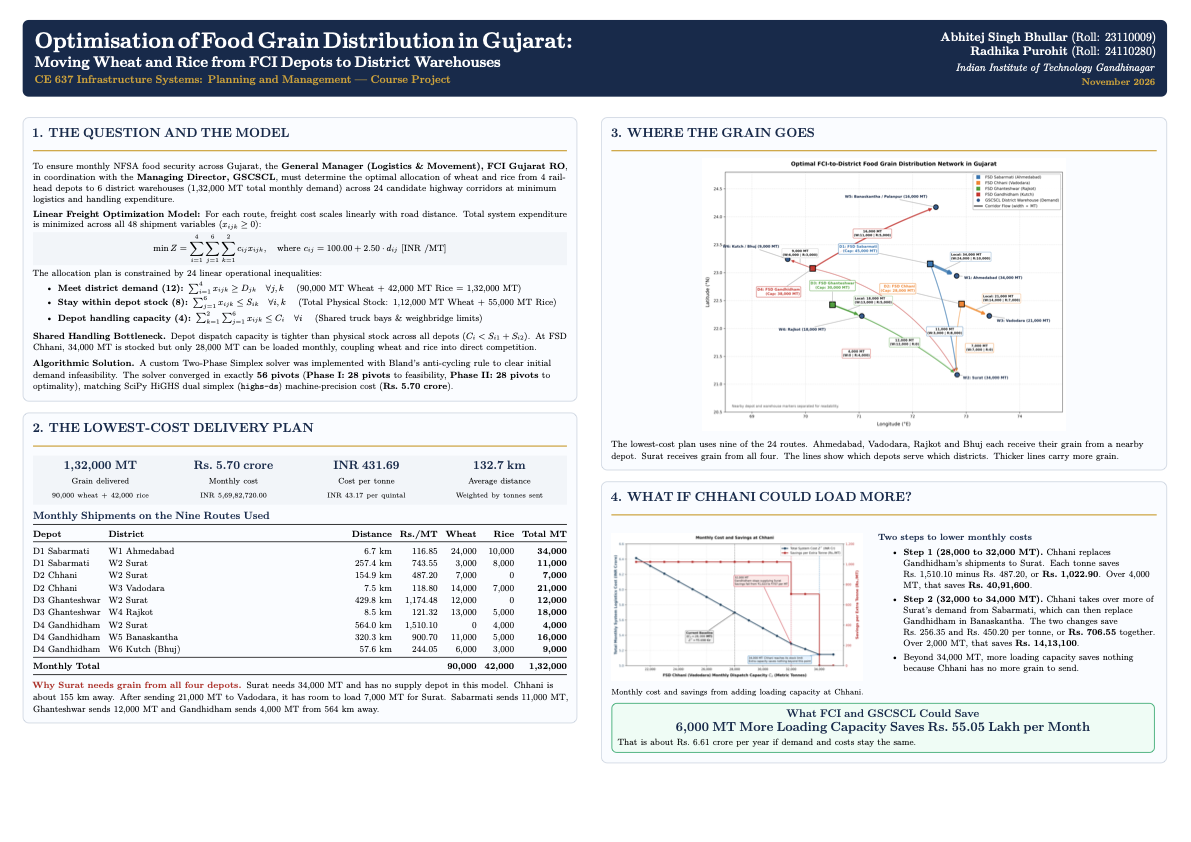
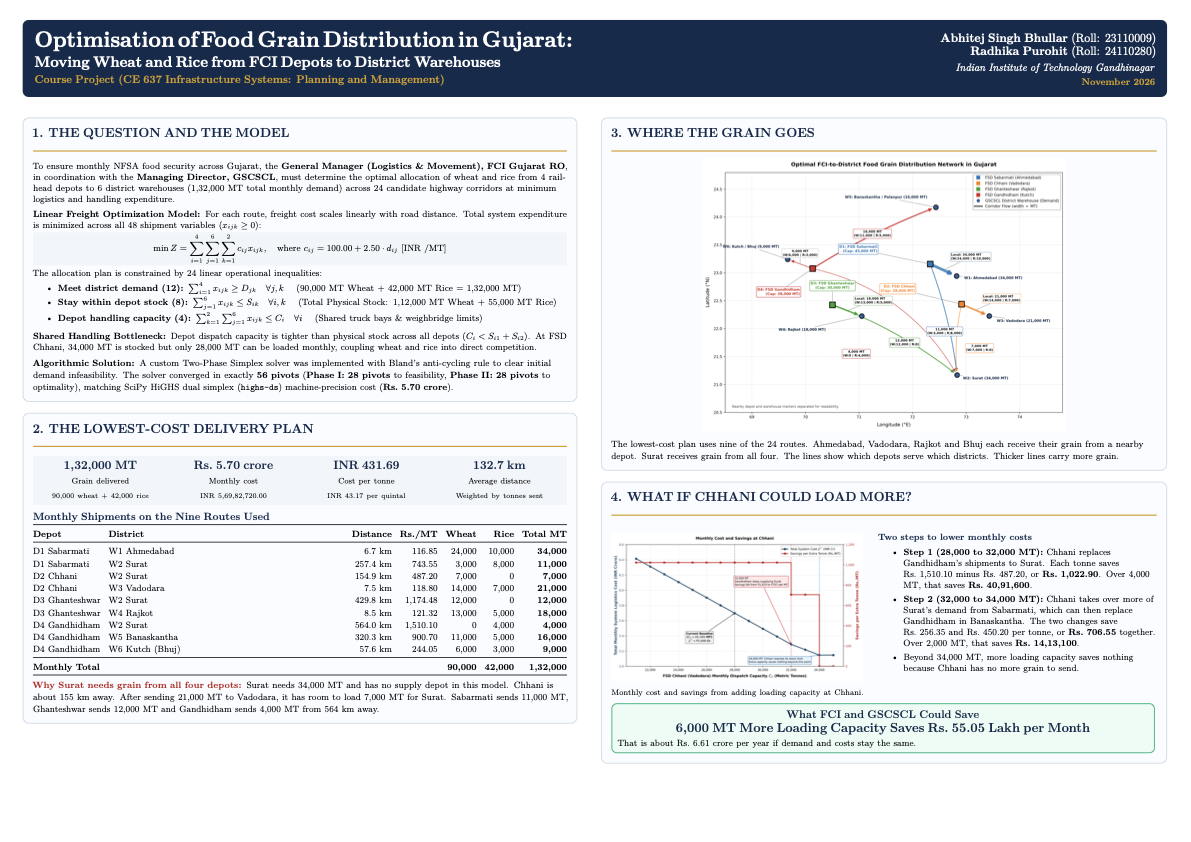
improved poster formatting

diff --git a/report/Poster.tex b/report/Poster.tex
@@ -44,7 +44,7 @@
       \color{white}
       {\fontsize{22pt}{26pt}\selectfont \textbf{Optimisation of Food Grain Distribution in Gujarat:}}\\[4pt]
       {\fontsize{15pt}{18pt}\selectfont \textbf{Moving Wheat and Rice from FCI Depots to District Warehouses}}\\[4pt]
-      {\fontsize{11pt}{13pt}\selectfont \textbf{\color{accentgold}CE 637 Infrastructure Systems: Planning and Management --- Course Project}}
+      {\fontsize{11pt}{13pt}\selectfont \textbf{\color{accentgold}Course Project (CE 637 Infrastructure Systems: Planning and Management)}}
     \end{minipage}\hfill
     \begin{minipage}[c]{0.26\linewidth}
       \color{white}\raggedleft
@@ -89,8 +89,8 @@
       \end{itemize}
       \vspace{2pt}
 
-      \textbf{Shared Handling Bottleneck.} Depot dispatch capacity is tighter than physical stock across all depots ($C_i < S_{i1} + S_{i2}$). At FSD Chhani, 34,000 MT is stocked but only 28,000 MT can be loaded monthly, coupling wheat and rice into direct competition.\\[4pt]
-      \textbf{Algorithmic Solution.} A custom Two-Phase Simplex solver was implemented with Bland's anti-cycling rule to clear initial demand infeasibility. The solver converged in exactly \textbf{56 pivots} (\textbf{Phase I: 28 pivots} to feasibility, \textbf{Phase II: 28 pivots} to optimality), matching SciPy HiGHS dual simplex (\texttt{highs-ds}) machine-precision cost (\textbf{\Rs 5.70 crore}).
+      \textbf{Shared Handling Bottleneck:} Depot dispatch capacity is tighter than physical stock across all depots ($C_i < S_{i1} + S_{i2}$). At FSD Chhani, 34,000 MT is stocked but only 28,000 MT can be loaded monthly, coupling wheat and rice into direct competition.\\[4pt]
+      \textbf{Algorithmic Solution:} A custom Two-Phase Simplex solver was implemented with Bland's anti-cycling rule to clear initial demand infeasibility. The solver converged in exactly \textbf{56 pivots} (\textbf{Phase I: 28 pivots} to feasibility, \textbf{Phase II: 28 pivots} to optimality), matching SciPy HiGHS dual simplex (\texttt{highs-ds}) machine-precision cost (\textbf{\Rs 5.70 crore}).
     };
   \end{tikzpicture}
 
@@ -153,7 +153,7 @@
       \vspace{5pt}
       \raggedright \small
 
-      \textbf{\color{alertred}Why Surat needs grain from all four depots.}
+      \textbf{\color{alertred}Why Surat needs grain from all four depots:}
       Surat needs 34,000 MT and has no supply depot in this model. Chhani is about 155 km away. After sending 21,000 MT to Vadodara, it has room to load 7,000 MT for Surat. Sabarmati sends 11,000 MT, Ghanteshwar sends 12,000 MT and Gandhidham sends 4,000 MT from 564 km away.
     };
   \end{tikzpicture}
@@ -196,9 +196,9 @@
 
         \textbf{\color{headerblue}Two steps to lower monthly costs}
         \begin{itemize}\setlength{\itemsep}{3pt}\setlength{\parskip}{0pt}\small
-          \item \textbf{Step 1 (28,000 to 32,000 MT).}
+          \item \textbf{Step 1 (28,000 to 32,000 MT):}
           Chhani replaces Gandhidham's shipments to Surat. Each tonne saves Rs.~1,510.10 minus Rs.~487.20, or \textbf{Rs.~1,022.90}. Over 4,000 MT, that saves \textbf{Rs.~40,91,600}.
-          \item \textbf{Step 2 (32,000 to 34,000 MT).}
+          \item \textbf{Step 2 (32,000 to 34,000 MT):}
           Chhani takes over more of Surat's demand from Sabarmati, which can then replace Gandhidham in Banaskantha. The two changes save Rs.~256.35 and Rs.~450.20 per tonne, or \textbf{Rs.~706.55} together. Over 2,000 MT, that saves \textbf{Rs.~14,13,100}.
           \item Beyond 34,000 MT, more loading capacity saves nothing because Chhani has no more grain to send.
         \end{itemize}
